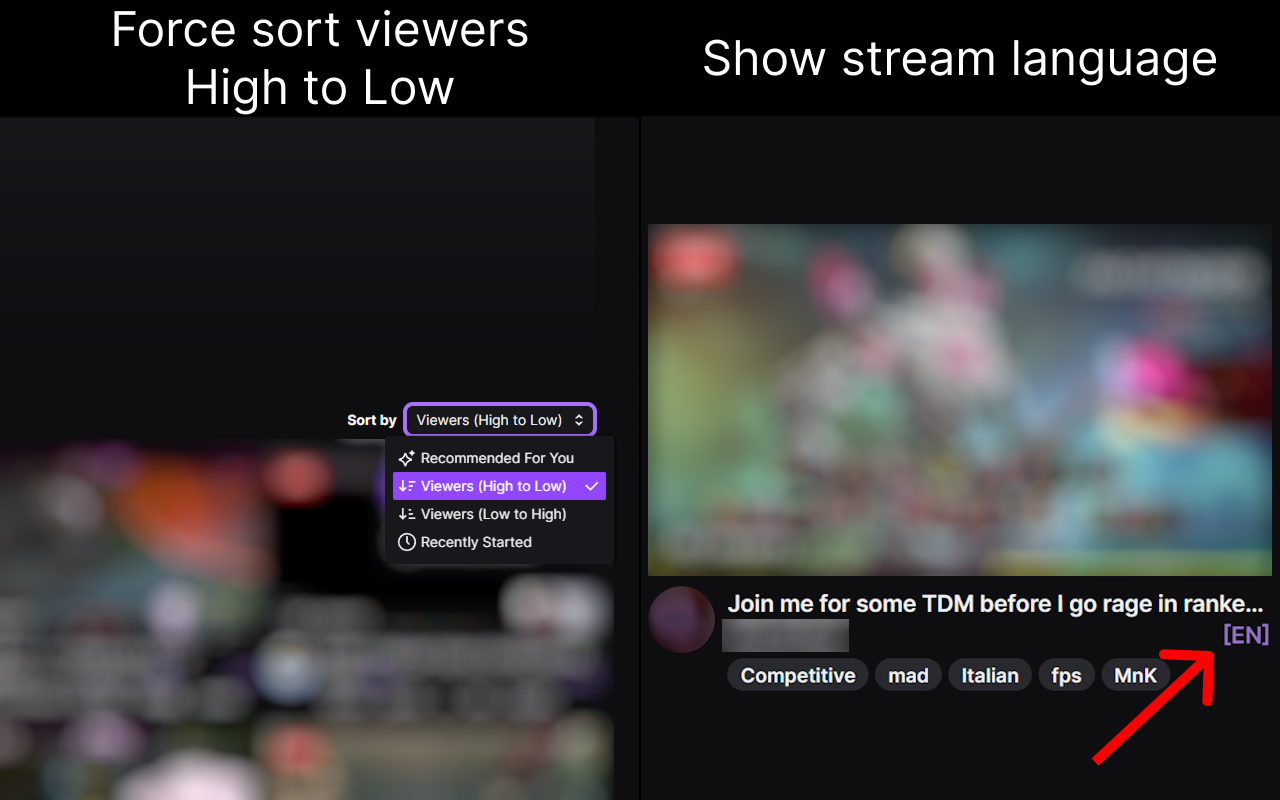
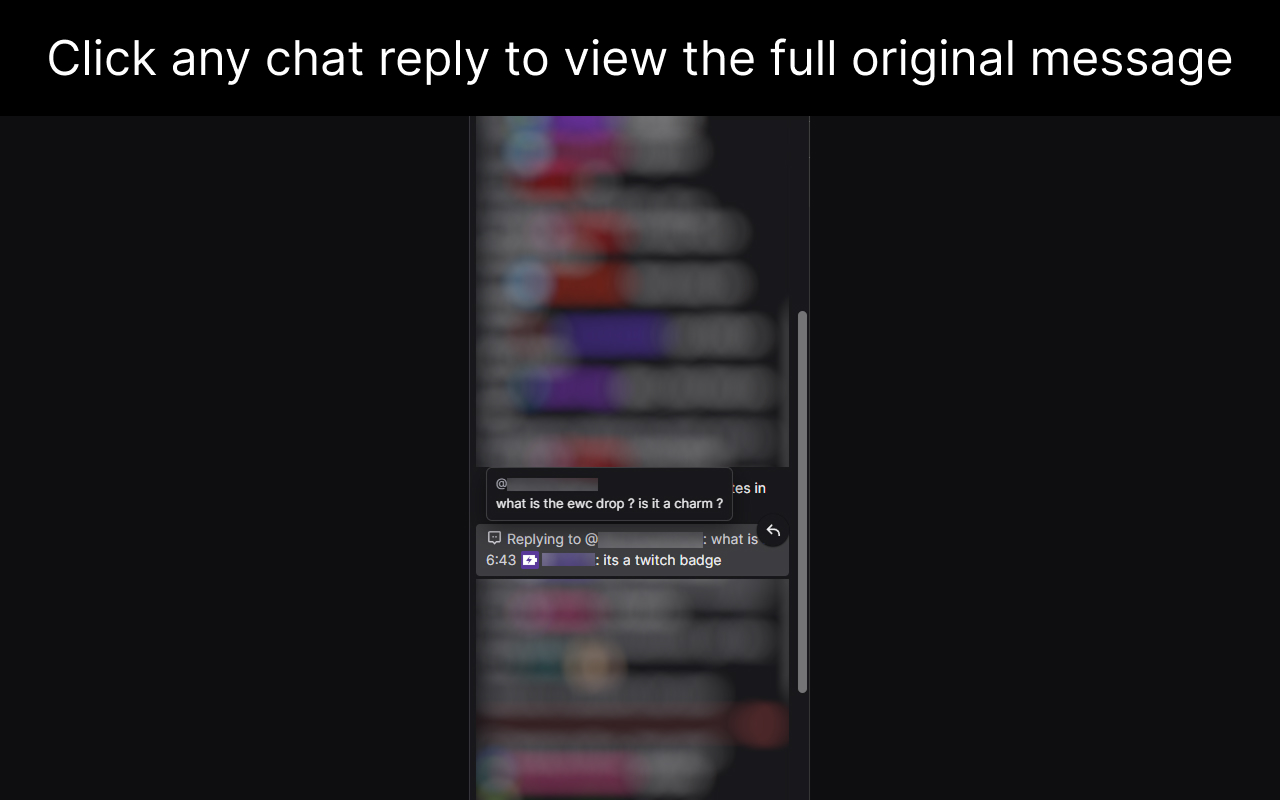
chore: update screenshots and README

diff --git a/README.md b/README.md
@@ -4,7 +4,7 @@
 
 Modular browser extension for Twitch that combines several quality-of-life improvements in one place. Designed as a unified replacement for multiple separate Twitch userscripts, it offers shared settings, per-module toggles, and separate builds for **Chrome/Chromium** and **Firefox**.
 
-It currently includes [**Toggle Video Quality**](https://github.com/Vikindor/twitch-toggle-video-quality), [**Keep Tab Active**](https://github.com/Vikindor/twitch-keep-tab-active), **Chat Reply Preview**, **Auto Claim Bonus**, **Block Annoyances**, [**Force Sort Viewers High to Low**](https://github.com/Vikindor/twitch-force-sort-viewers), and [**Show Stream Language**](https://github.com/Vikindor/twitch-show-stream-language).
+It currently includes [**Toggle Video Quality**](https://github.com/Vikindor/twitch-toggle-video-quality), [**Keep Tab Active**](https://github.com/Vikindor/twitch-keep-tab-active), **Auto Claim Bonus**, **Block Annoyances**, **Chat Reply Preview**, [**Force Sort Viewers High to Low**](https://github.com/Vikindor/twitch-force-sort-viewers), and [**Show Stream Language**](https://github.com/Vikindor/twitch-show-stream-language).
 
 Especially useful for people who like to **keep streams running in the background** to support streamers, farm **channel points**, or keep streams running for **Drops** with less manual babysitting.
 
@@ -29,18 +29,12 @@ Especially useful for people who like to **keep streams running in the backgroun
 
 <img src="media/screenshot_2.jpg" width="75%" alt="Features screenshot 2" title="Features"/>
 
-### 3⃣ Chat Reply Preview
-
-- Makes Twitch chat's `Replying to ...` labels clickable
-- Shows the original message's full text in a popup
-- Keeps popup text selectable for easy copying
-
-### 4⃣ Auto Claim Bonus
+### 3⃣ Auto Claim Bonus
 
 - Polls for the `Claim Bonus` button under the chat
 - Claims channel points bonuses automatically
 
-### 5⃣ Block Annoyances (disabled by default)
+### 4⃣ Block Annoyances (disabled by default)
 
 - Hides selected Twitch UI elements without blocking ads or modifying stream delivery
 - Provides a separate checkbox for each supported element:
@@ -56,6 +50,14 @@ Especially useful for people who like to **keep streams running in the backgroun
 
 <img src="media/screenshot_3.jpg" width="75%" alt="Features screenshot 3" title="Features"/>
 
+### 5⃣ Chat Reply Preview
+
+- Makes Twitch chat's `Replying to ...` labels clickable
+- Shows the original message's full text in a popup
+- Keeps popup text selectable for easy copying
+
+<img src="media/screenshot_4.jpg" width="75%" alt="Features screenshot 4" title="Features"/>
+
 ### 6⃣ Force Sort Viewers
 
 - Nudges Twitch directory pages toward `Viewers: High to Low` sorting
@@ -68,8 +70,8 @@ Especially useful for people who like to **keep streams running in the backgroun
 
 ### ➕ Per-module settings and toggles in a shared options page
 
-<img src="media/screenshot_4_firefox.jpg" width="75%" alt="Options Firefox screenshot 4" title="Firefox"/>
-<img src="media/screenshot_4_google.jpg" width="75%" alt="Options Google screenshot 4" title="Google/Brave"/>
+<img src="media/screenshot_5_firefox.jpg" width="75%" alt="Options Firefox screenshot 4" title="Firefox"/>
+<img src="media/screenshot_5_google.jpg" width="75%" alt="Options Google screenshot 4" title="Google/Brave"/>
 
 ## 🚀 Installation
 
